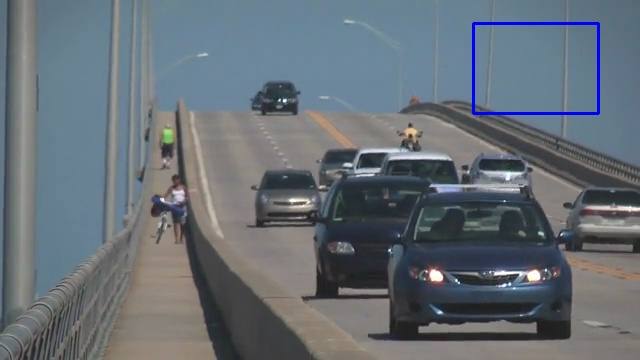
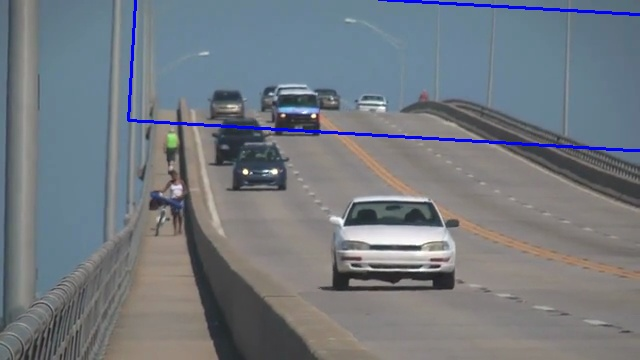
added camshift algorithm

diff --git a/codebase/camshift_algorithm.py b/codebase/camshift_algorithm.py
@@ -1,0 +1,49 @@
+import numpy as np
+import cv2
+
+cap = cv2.VideoCapture('sample.mp4')
+
+# take first frame of the video
+ret,frame = cap.read()
+
+# setup initial location of window
+r,h,c,w = 250,90,400,125  # simply hardcoded the values
+track_window = (c,r,w,h)
+
+# set up the ROI for tracking
+roi = frame[r:r+h, c:c+w]
+hsv_roi =  cv2.cvtColor(frame, cv2.COLOR_BGR2HSV)
+mask = cv2.inRange(hsv_roi, np.array((0., 60.,32.)), np.array((180.,255.,255.)))
+roi_hist = cv2.calcHist([hsv_roi],[0],mask,[180],[0,180])
+cv2.normalize(roi_hist,roi_hist,0,255,cv2.NORM_MINMAX)
+
+# Setup the termination criteria, either 10 iteration or move by atleast 1 pt
+term_crit = ( cv2.TERM_CRITERIA_EPS | cv2.TERM_CRITERIA_COUNT, 10, 1 )
+
+while(1):
+    ret ,frame = cap.read()
+
+    if ret == True:
+        hsv = cv2.cvtColor(frame, cv2.COLOR_BGR2HSV)
+        dst = cv2.calcBackProject([hsv],[0],roi_hist,[0,180],1)
+
+        # apply meanshift to get the new location
+        ret, track_window = cv2.CamShift(dst, track_window, term_crit)
+
+        # Draw it on image
+        pts = cv2.boxPoints(ret)
+        pts = np.int0(pts)
+        img2 = cv2.polylines(frame,[pts],True, 255,2)
+        cv2.imshow('img2',img2)
+
+        k = cv2.waitKey(60) & 0xff
+        if k == 27:
+            break
+        else:
+            cv2.imwrite(chr(k)+".jpg",img2)
+
+    else:
+        break
+
+cv2.destroyAllWindows()
+cap.release()
